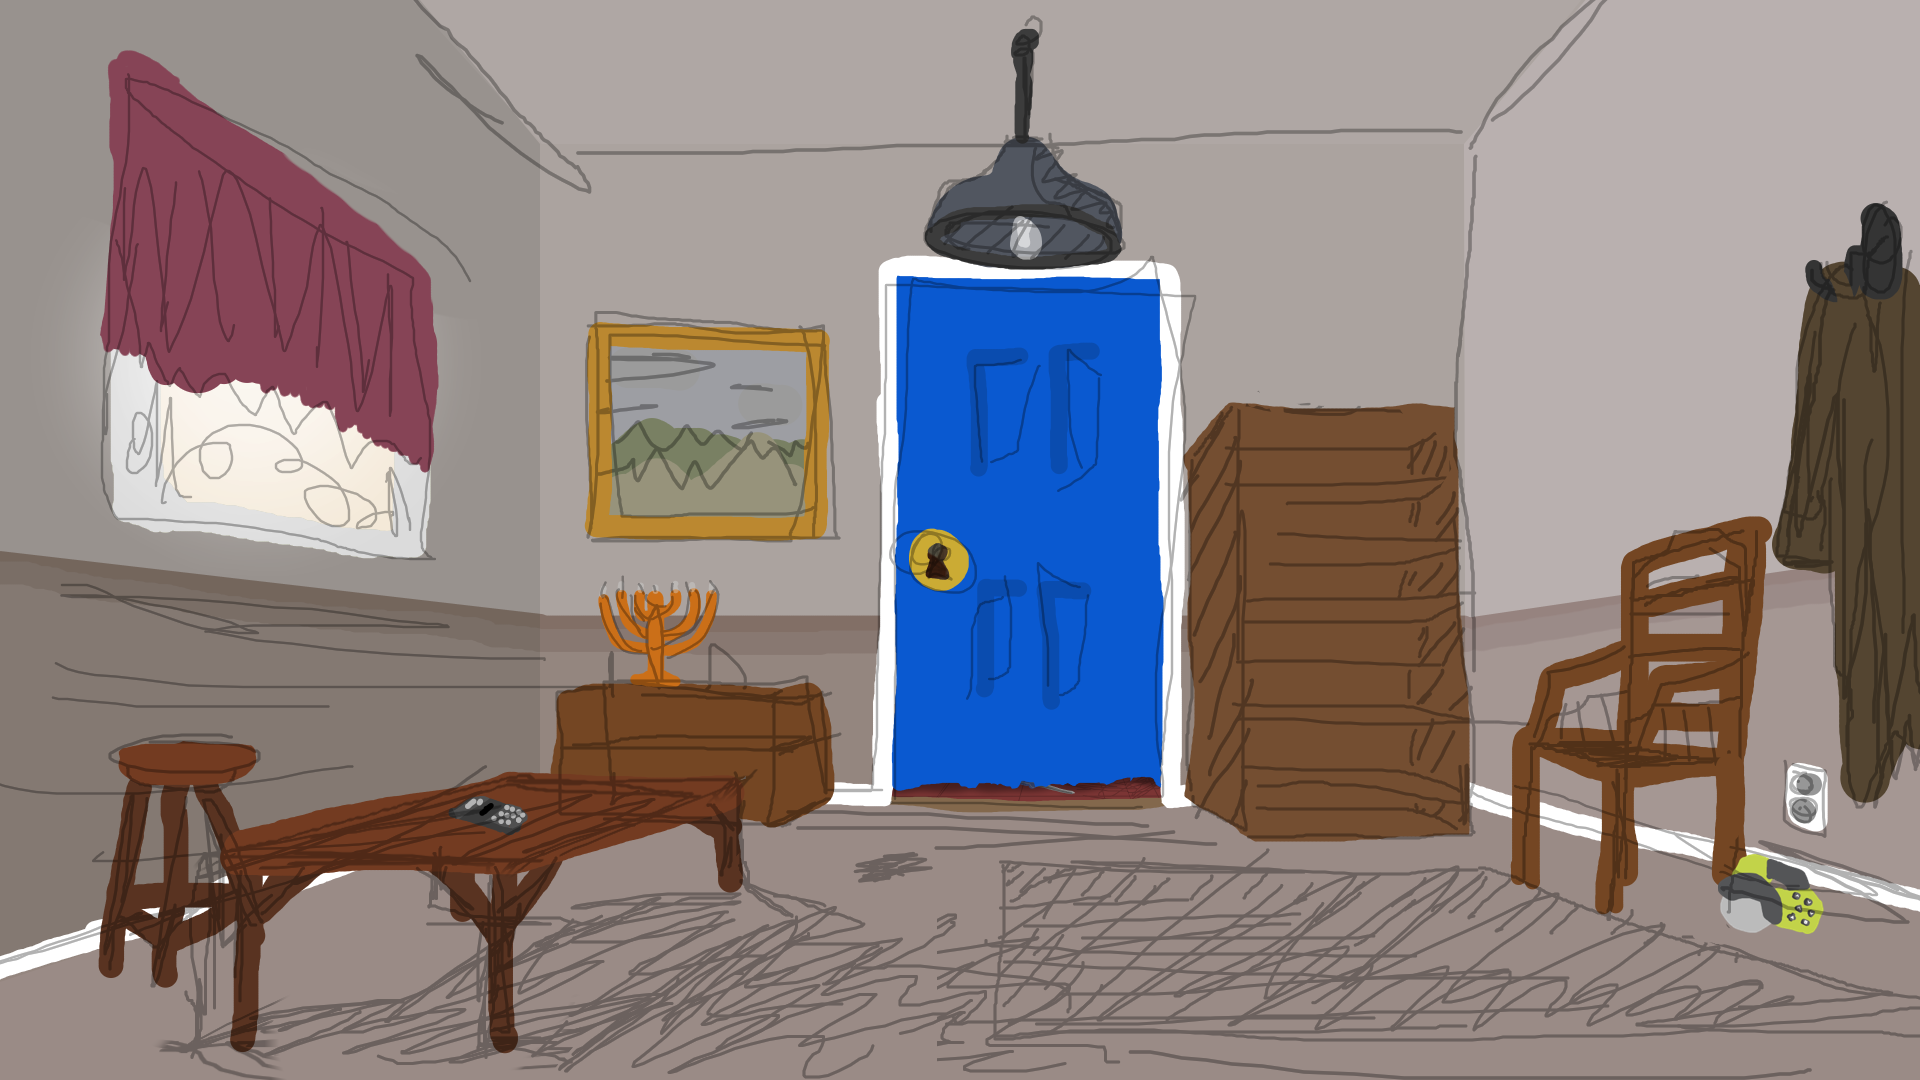
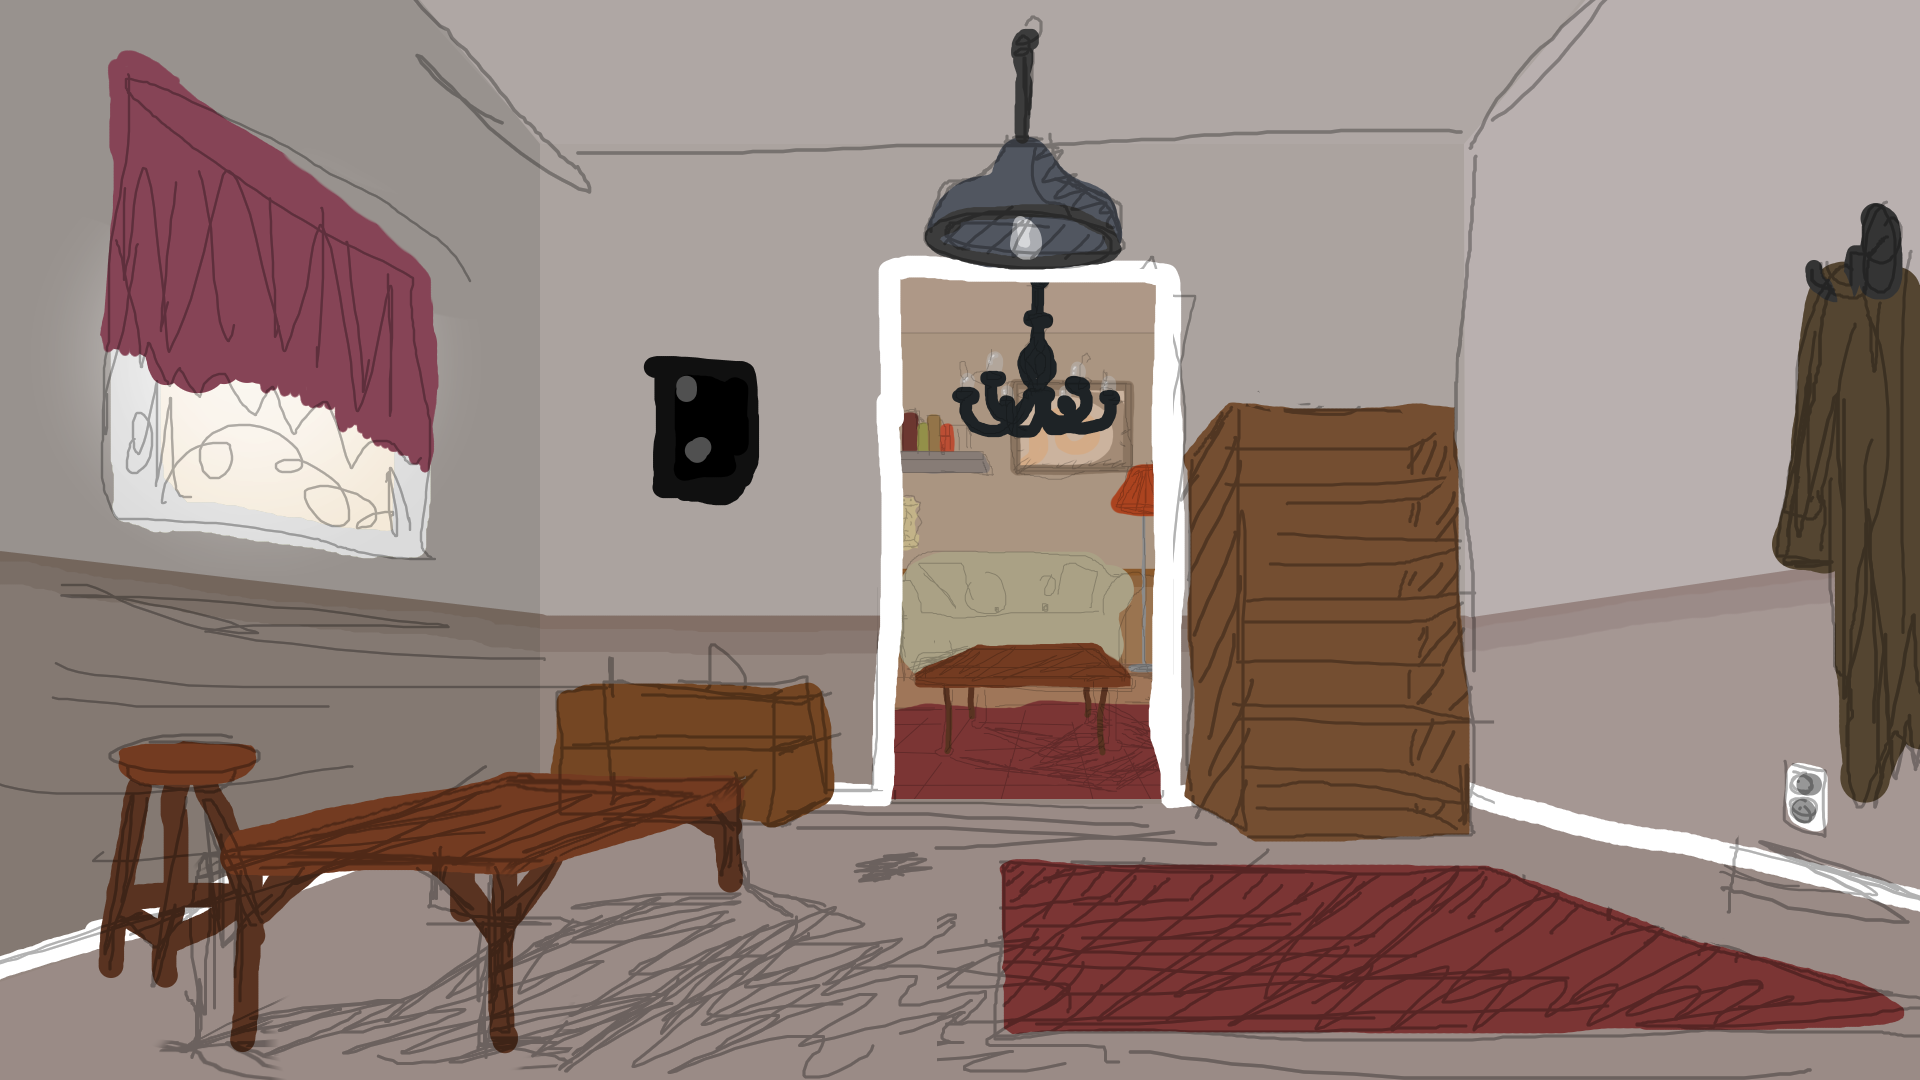
replace placeholder sprites

Changed region(s): [[0.2812, 0.2444, 0.625, 0.7639], [0.5, 0.4583, 1.0, 0.9778], [0.2188, 0.7333, 0.2812, 0.7944]]

diff --git a/src/main.ts b/src/main.ts
@@ -159,7 +159,7 @@ inventory_callbacks.push(() => {
                         const item_preview = document.createElement("div");
                         const item_image = document.createElement("img");
 
-                        item_image.src = `./${item}.png`;
+                        item_image.src = `./${item}.webp`;
 
                         item_preview.appendChild(item_image);
 
@@ -203,18 +203,18 @@ const front_room = scene.ecs.create_entity<[Frontroom, Twodo.Transform, Twodo.Sp
     new Twodo.Sprite("./front-room.webp"),
 ]);
 
-front_room[1].scale = new Twodo.Vector2(26, 14);
+front_room[1].scale = new Twodo.Vector2(19.2 * 1.3, 10.8 * 1.3);
 
 // Door
 const door = scene.ecs.create_entity<[Frontroom, Interactable, Twodo.Transform, Twodo.Sprite]>([
     new Frontroom(),
     new Interactable(),
     new Twodo.Transform(),
-    new Twodo.Sprite("./door.png"),
+    new Twodo.Sprite("./door.webp"),
 ]);
 
-door[2].position = new Twodo.Vector2(0, -0.7);
-door[2].scale = new Twodo.Vector2(6, 8);
+door[2].position = new Twodo.Vector2(0.88, 0.1);
+door[2].scale = new Twodo.Vector2(2.95 * 1.3, 5.21 * 1.3);
 
 door[1].register_callback(() => {
     if (inventory.selected_item == "key") {
@@ -229,11 +229,11 @@ const card = scene.ecs.create_entity<[Frontroom, Interactable, Twodo.Transform, 
     new Frontroom(),
     new Interactable(),
     new Twodo.Transform(),
-    new Twodo.Sprite("./card.png"),
+    new Twodo.Sprite("./card.webp"),
 ]);
 
-card[2].position = new Twodo.Vector2(-2, -5.5);
-card[2].scale = new Twodo.Vector2(0.4, 0.6);
+card[2].position = new Twodo.Vector2(-1, -4.2);
+card[2].scale = new Twodo.Vector2(0.73 * 1.3, 0.36 * 1.3);
 
 card[1].register_callback(() => {
     inventory.items.card = true;
@@ -246,10 +246,11 @@ const card_terminal = scene.ecs.create_entity<[Frontroom, Interactable, Twodo.Tr
     new Frontroom(),
     new Interactable(),
     new Twodo.Transform(),
-    new Twodo.Sprite("./card-terminal.png"),
+    new Twodo.Sprite("./card-terminal.webp"),
 ]);
 
-card_terminal[2].position = new Twodo.Vector2(9, -5);
+card_terminal[2].position = new Twodo.Vector2(-6.3, -3.5);
+card_terminal[2].scale = new Twodo.Vector2(0.8 * 1.3, 0.4 * 1.3);
 
 card_terminal[1].register_callback(() => {
     show_view(CardTerminal);
@@ -260,15 +261,25 @@ const candelabra = scene.ecs.create_entity<[Frontroom, Interactable, Twodo.Trans
     new Frontroom(),
     new Interactable(),
     new Twodo.Transform(),
-    new Twodo.Sprite("./candelabra.png"),
+    new Twodo.Sprite("./candelabra.webp"),
 ]);
 
-candelabra[2].position = new Twodo.Vector2(5, -5);
-candelabra[2].scale = new Twodo.Vector2(3.2, 1.8);
+candelabra[2].position = new Twodo.Vector2(-4, -1.2);
+candelabra[2].scale = new Twodo.Vector2(1.22 * 1.3, 1.12 * 1.3);
 
 candelabra[1].register_callback(() => {
     show_view(Candelabra);
 });
+
+// Chair
+const chair = scene.ecs.create_entity<[Frontroom, Twodo.Transform, Twodo.Sprite]>([
+    new Frontroom(),
+    new Twodo.Transform(),
+    new Twodo.Sprite("./chair.webp"),
+]);
+
+chair[1].position = new Twodo.Vector2(8.3, -2.5);
+chair[1].scale = new Twodo.Vector2(2.79 * 1.3, 4.29 * 1.3);
 
 // Cable
 const cable = scene.ecs.create_entity<[Frontroom, Interactable, Twodo.Transform, Twodo.Sprite]>([
@@ -280,8 +291,8 @@ const cable = scene.ecs.create_entity<[Frontroom, Interactable, Twodo.Transform,
 
 let cable_fixed = false;
 
-cable[2].position = new Twodo.Vector2(-8.1, -5);
-cable[2].scale = new Twodo.Vector2(2, 1);
+cable[2].position = new Twodo.Vector2(11.3, -4.45);
+cable[2].scale = new Twodo.Vector2(1.52 * 1.3, 2.23 * 1.3);
 
 cable[1].register_callback(() => {
     if (inventory.selected_item == "tape") {
@@ -295,11 +306,11 @@ const saw = scene.ecs.create_entity<[Frontroom, Interactable, Twodo.Transform, T
     new Frontroom(),
     new Interactable(),
     new Twodo.Transform(),
-    new Twodo.Sprite("./saw.png"),
+    new Twodo.Sprite("./saw.webp"),
 ]);
 
-saw[2].position = new Twodo.Vector2(-6, -4);
-saw[2].scale = new Twodo.Vector2(4, 4);
+saw[2].position = new Twodo.Vector2(9.7, -4.7);
+saw[2].scale = new Twodo.Vector2(1.06 * 1.3, 0.8 * 1.3);
 
 saw[1].register_callback(() => {
     show_view(Saw);
@@ -310,11 +321,11 @@ const painting = scene.ecs.create_entity<[Frontroom, Interactable, Twodo.Transfo
     new Frontroom(),
     new Interactable(),
     new Twodo.Transform(),
-    new Twodo.Sprite("./painting.png"),
+    new Twodo.Sprite("./painting.webp"),
 ]);
 
-painting[2].position = new Twodo.Vector2(5, 2);
-painting[2].scale = new Twodo.Vector2(3, 2);
+painting[2].position = new Twodo.Vector2(-3.4, 1.4);
+painting[2].scale = new Twodo.Vector2(2.57 * 1.3, 2.32 * 1.3);
 
 painting[1].register_callback(() => {
     show_view(Painting);
@@ -327,8 +338,8 @@ const under_door = scene.ecs.create_entity<[Frontroom, Interactable, Twodo.Trans
     new Twodo.Transform(),
 ]);
 
-under_door[2].position = new Twodo.Vector2(0, -4.5);
-under_door[2].scale = new Twodo.Vector2(6, 2);
+under_door[2].position = new Twodo.Vector2(0.88, -4);
+under_door[2].scale = new Twodo.Vector2(2.95 * 1.3, 2);
 
 under_door[1].register_callback(() => {
     if (inventory.selected_item == "stick") {
@@ -341,7 +352,7 @@ under_door[1].register_callback(() => {
 const card_terminal_large = scene.ecs.create_entity<[CardTerminal, Twodo.Transform, Twodo.Sprite]>([
     new CardTerminal(),
     new Twodo.Transform(),
-    new Twodo.Sprite("./card-terminal-large.png"),
+    new Twodo.Sprite("./card-terminal-large.webp"),
 ]);
 
 card_terminal_large[1].scale = new Twodo.Vector2(16, 9);
@@ -430,7 +441,7 @@ const candelabra_large = scene.ecs.create_entity<[Candelabra, Interactable, Twod
     new Candelabra(),
     new Interactable(),
     new Twodo.Transform(),
-    new Twodo.Sprite("./candelabra.png"),
+    new Twodo.Sprite("./candelabra-large.webp"),
 ]);
 
 candelabra_large[2].scale = new Twodo.Vector2(16, 9);
@@ -454,7 +465,7 @@ for (let i = 0; i < candle_positions.length; i++) {
         new Candle(i),
         new Interactable(),
         new Twodo.Transform(),
-        new Twodo.Sprite("./candle.png"),
+        new Twodo.Sprite("./candle.webp"),
     ]);
 
     candle[3].position = candle_positions[i];
@@ -476,7 +487,7 @@ for (let i = 0; i < candle_positions.length; i++) {
 const saw_large = scene.ecs.create_entity<[Saw, Twodo.Transform, Twodo.Sprite]>([
     new Saw(),
     new Twodo.Transform(),
-    new Twodo.Sprite("./saw-large.png"),
+    new Twodo.Sprite("./saw-large.webp"),
 ]);
 
 saw_large[1].scale = new Twodo.Vector2(32, 18);
@@ -514,6 +525,7 @@ saw_button_positions.forEach((position, index) => {
         if (sequence.length >= 6) {
             if (sequence == correct_sequence) {
                 inventory.items.stick = true;
+                chair[2].src = "./broken-chair.webp";
                 grab.play();
             } else {
                 error.play();
@@ -539,7 +551,7 @@ for (let x = 0; x < 3; x++) {
             new Button((2 - y) * 3 + x + 1),
             new Interactable(),
             new Twodo.Transform(),
-            new Twodo.Sprite("./card.png"),
+            new Twodo.Sprite("./card.webp"),
         ]);
 
         safe_button[3].position = new Twodo.Vector2(x / 1.5 - 1.5, y / 1.6 + 0.8);
@@ -553,7 +565,7 @@ for (let x = 0; x < 3; x++) {
         new Button(0),
         new Interactable(),
         new Twodo.Transform(),
-        new Twodo.Sprite("./card.png"),
+        new Twodo.Sprite("./card.webp"),
     ]);
 
     safe_button[3].position = new Twodo.Vector2(-0.9, 0.24);
@@ -564,7 +576,7 @@ const safe_enter = scene.ecs.create_entity<[Painting, Interactable, Twodo.Transf
     new Painting(),
     new Interactable(),
     new Twodo.Transform(),
-    new Twodo.Sprite("./card.png"),
+    new Twodo.Sprite("./card.webp"),
 ]);
 
 safe_enter[2].position = new Twodo.Vector2(-0.15, 0.24);
